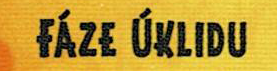
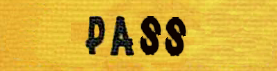
switching phases technique

diff --git a/Settlers/frontend/src/main/java/cz/games/lp/MainApp.java b/Settlers/frontend/src/main/java/cz/games/lp/MainApp.java
@@ -8,6 +8,7 @@ import cz.games.lp.components.FactionBoard;
 import cz.games.lp.components.RoundPhases;
 import cz.games.lp.components.ScoreBoard;
 import cz.games.lp.enums.CardType;
+import cz.games.lp.enums.Phases;
 import cz.games.lp.panes.ChoiceDialog;
 import cz.games.lp.panes.PaneModel;
 import cz.games.lp.panes.UIPane;
@@ -43,6 +44,8 @@ public class MainApp extends Application {
         stage.setTitle(manager.getTitle());
         stage.setResizable(false);
         stage.show();
+
+        setPhases();
 
         newGame();
     }
@@ -94,5 +97,38 @@ public class MainApp extends Application {
         model.getBuiltFactionCards().forEach((cardType, factionCardPane) -> factionCardPane.getChildren().clear());
         model.getBuiltCommonCards().forEach((cardType, factionCardPane) -> factionCardPane.getChildren().clear());
         model.getRoundPhases().reset();
+    }
+
+    private void setPhases() {
+        model.getRoundPhases().getButtons().forEach((phase, button) -> {
+            switch (phase) {
+                case Phases.LOOKOUT -> button.setOnAction(evt -> lookoutPhase());
+                case Phases.PRODUCTION -> button.setOnAction(evt -> productionPhase());
+                case Phases.ACTION -> button.setOnAction(evt -> actionPhase());
+                case Phases.PASS_ACTION -> button.setOnAction(evt -> passActions());
+                case Phases.CLEANUP -> button.setOnAction(evt -> cleanUpPhase());
+                default -> throw new IllegalStateException("unknown phase");
+            }
+        });
+    }
+
+    private void lookoutPhase() {
+        model.getActionManager().proceedLookout(() -> model.getRoundPhases().switchButton(Phases.PRODUCTION));
+    }
+
+    private void productionPhase() {
+        //TODO - prepared method
+    }
+
+    private void actionPhase() {
+        //TODO - prepared method
+    }
+
+    private void passActions() {
+        //TODO - prepared method
+    }
+
+    private void cleanUpPhase() {
+        //TODO - prepared method
     }
 }

diff --git a/Settlers/frontend/src/main/java/cz/games/lp/actions/ActionManager.java b/Settlers/frontend/src/main/java/cz/games/lp/actions/ActionManager.java
@@ -1,13 +1,16 @@
 package cz.games.lp.actions;
 
+import cz.games.lp.enums.Phases;
 import cz.games.lp.panes.PaneModel;
 import javafx.application.Platform;
 
 public class ActionManager {
 
     private final CardMoveActions cardMoveActions;
+    private final PaneModel model;
 
     public ActionManager(PaneModel model) {
+        this.model = model;
         cardMoveActions = new CardMoveActions(model);
     }
 
@@ -21,6 +24,7 @@ public class ActionManager {
 
     public void prepareFirstFourCards() {
         Platform.runLater(() -> cardMoveActions.drawMoreCards(
+                null,
                 cardMoveActions.drawFactionCard(false),
                 cardMoveActions.drawFactionCard(false),
                 cardMoveActions.drawCommonCard(false),
@@ -28,8 +32,9 @@ public class ActionManager {
         ));
     }
 
-    public void proceedLookout() {
+    public void proceedLookout(Runnable command) {
         cardMoveActions.drawMoreCards(
+                command,
                 cardMoveActions.drawFactionCard(false),
                 cardMoveActions.drawCommonCard(false),
                 cardMoveActions.drawCommonCard(false)

diff --git a/Settlers/frontend/src/main/java/cz/games/lp/actions/CardMoveActions.java b/Settlers/frontend/src/main/java/cz/games/lp/actions/CardMoveActions.java
@@ -35,13 +35,18 @@ public class CardMoveActions {
         return drawCard(model.getCommonCard(), model.getCardsInHand(), getCommonCard(), model.getCommonCards(), model.getCommonCardsStack(), CardType.COMMON, play);
     }
 
-    public void drawMoreCards(Animation... animations) {
+    public void drawMoreCards(Runnable command, Animation... animations) {
         if (sequentialTransitionRunning) {
             return;
         }
         SequentialTransition sequentialTransition = new SequentialTransition();
         sequentialTransition.getChildren().addAll(animations);
-        sequentialTransition.setOnFinished(event -> sequentialTransitionRunning = false);
+        sequentialTransition.setOnFinished(event -> {
+            sequentialTransitionRunning = false;
+            if (command != null) {
+                command.run();
+            }
+        });
         sequentialTransitionRunning = true;
         sequentialTransition.play();
     }

diff --git a/Settlers/frontend/src/main/java/cz/games/lp/components/RoundPhases.java b/Settlers/frontend/src/main/java/cz/games/lp/components/RoundPhases.java
@@ -23,7 +23,7 @@ public class RoundPhases extends VBox {
     public RoundPhases(PaneModel model) {
         setPrefWidth(model.getManager().getWidth() * 0.0615);
         setAlignment(Pos.CENTER);
-        IntStream.range(1, 5).forEach(i -> {
+        IntStream.range(1, 6).forEach(i -> {
             ImageNode imageNode = new ImageNode(model.getManager().getWidth() * 0.0615 - 10, 30);
             imageNode.setImage("phase_buttons/" + i + "phase");
             Button button = new Button();
@@ -37,5 +37,10 @@ public class RoundPhases extends VBox {
         buttons.forEach((k, v) -> v.setDisable(true));
         buttons.get(Phases.LOOKOUT).setDisable(false);
         setCurrentPhase(Phases.LOOKOUT);
+    }
+
+    public void switchButton(Phases phase) {
+        getButtons().forEach((cardType, button) -> button.setDisable(true));
+        getButtons().get(phase).setDisable(false);
     }
 }

diff --git a/Settlers/frontend/src/main/java/cz/games/lp/panes/CenterPane.java b/Settlers/frontend/src/main/java/cz/games/lp/panes/CenterPane.java
@@ -14,10 +14,8 @@ public class CenterPane extends VBox {
         VBox.setVgrow(incomingPane, Priority.ALWAYS);
 
         model.getFactionCardsStack().setPrefWidth(model.getManager().getCardWidth());
-        model.getFactionCardsStack().setOnMousePressed(evt -> model.getActionManager().drawFactionCard());
 
         model.getCommonCardsStack().setPrefWidth(model.getManager().getCardWidth());
-        model.getCommonCardsStack().setOnMousePressed(evt -> model.getActionManager().drawCommonCard());
 
         Region space = new Region();
         space.setPrefWidth(model.getManager().getWidth() * 0.0204);

diff --git a/Settlers/main/src/main/java/lp/Manager.java b/Settlers/main/src/main/java/lp/Manager.java
@@ -19,7 +19,7 @@ import java.util.stream.IntStream;
 public class Manager implements IManager {
 
     private static final int FACTION_CARD_COUNT = 30;
-    private static final int COMMON_CARD_COUNT = 5;
+    private static final int COMMON_CARD_COUNT = 84;
     private static final int CARD_SPEED = 400;
 
     private final Sources[] sources = {Sources.SETTLER, Sources.WOOD, Sources.STONE, Sources.FOOD, Sources.COIN, Sources.SWORD, Sources.SHIELD};

diff --git a/Settlers/frontend/src/main/java/cz/games/lp/enums/Phases.java b/Settlers/frontend/src/main/java/cz/games/lp/enums/Phases.java
@@ -4,5 +4,6 @@ public enum Phases {
     LOOKOUT,
     PRODUCTION,
     ACTION,
+    PASS_ACTION,
     CLEANUP
 }
